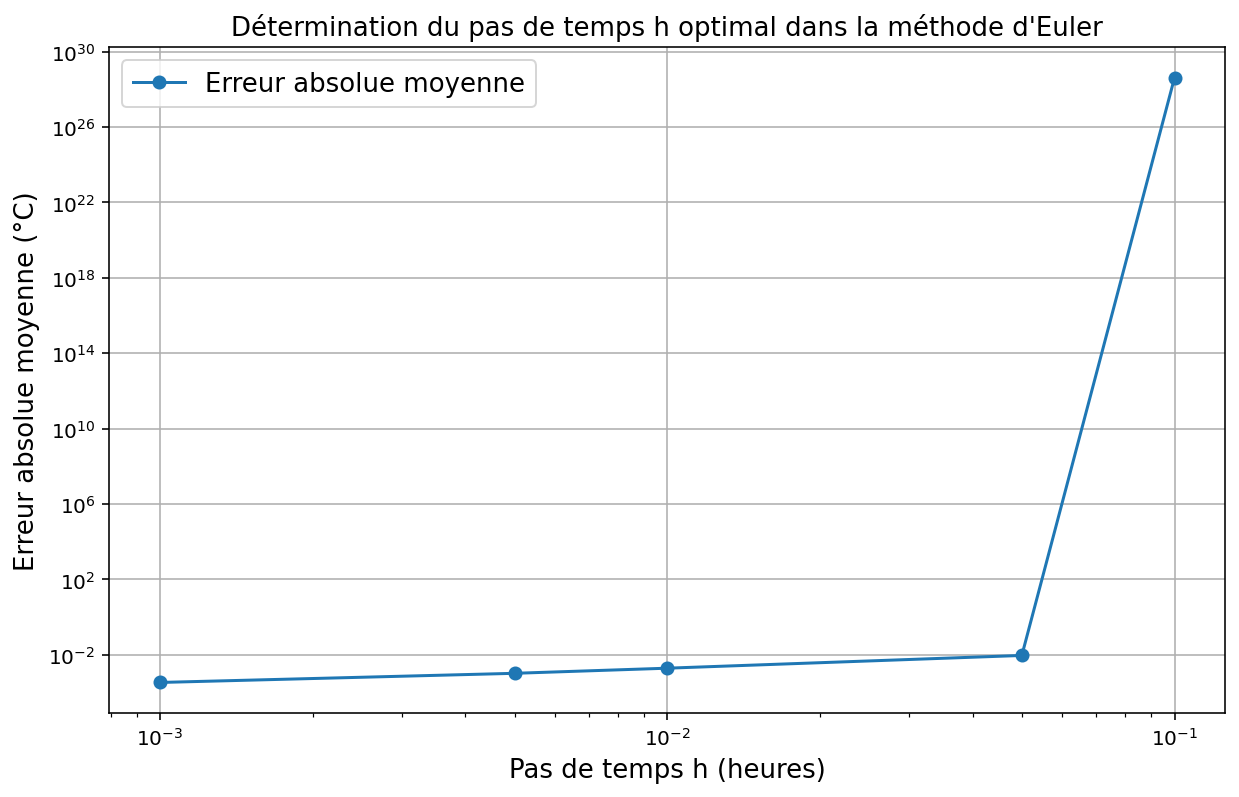
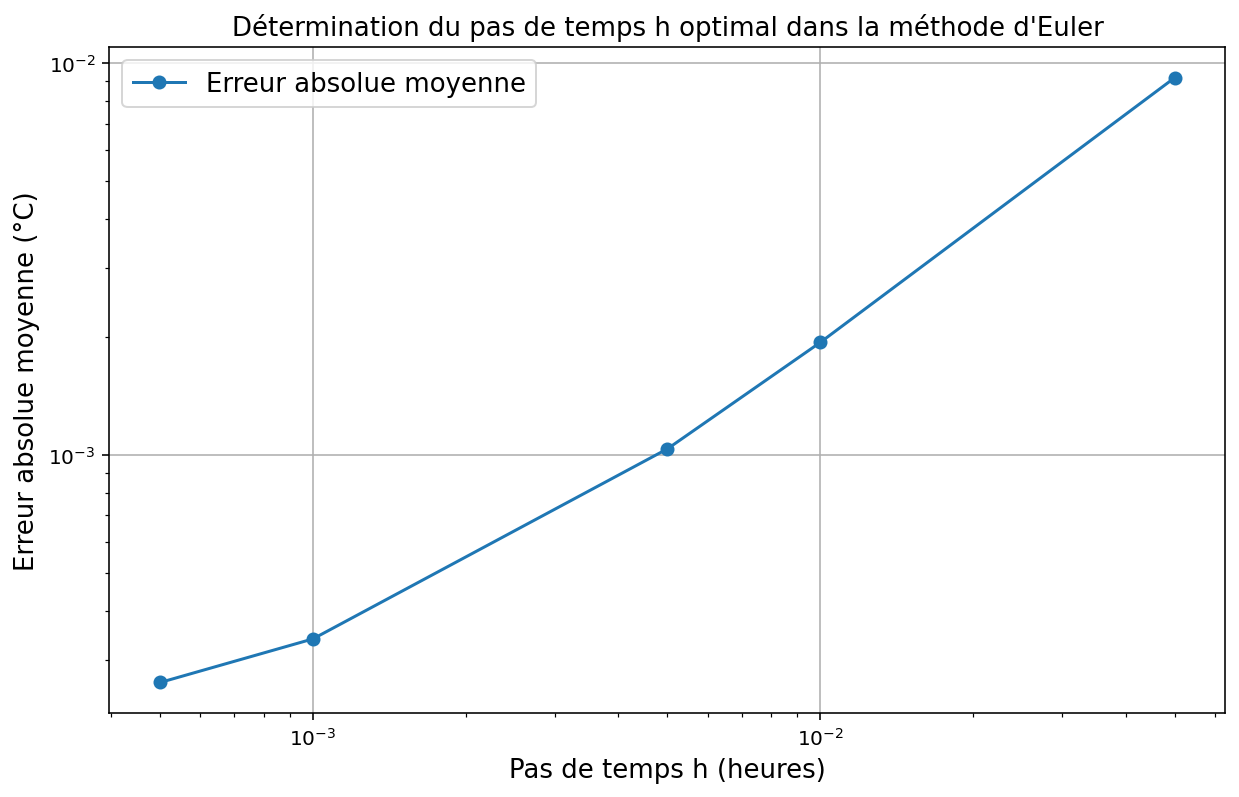
fix: meilleur graphe pas optimal

diff --git a/RechercheRacine.py b/RechercheRacine.py
@@ -4,7 +4,9 @@ def bissection(f,x0,x1,tol):
 
     fx0 = f(x0)
     fx1 = f(x1)
-
+    k = 0
+    k_max = 1000
+    
     if(np.abs(fx0)<=tol): # si x0 est déja une racine
         statut = 0
         return [x0,statut]
@@ -13,8 +15,7 @@ def bissection(f,x0,x1,tol):
         return [x1,statut]
 
     if(fx0*fx1<0): # => Deux valeurs de signe opposé => hyp. verifiée
-        k = 0
-        k_max = np.log2(np.abs(x1-x0)/(2*tol))
+        
 
         while (np.abs(x1-x0) > tol): #Tant que l'intervalle est + grand que tol
             x2 = (x0+x1)/2
@@ -39,7 +40,6 @@ def bissection(f,x0,x1,tol):
                 print("Erreur, la bissection ne converge pas vers une racine.")
                 print("Veuillez entrer des autres valeurs qui définissent un intervalle différent de celui des précédentes valeurs.")
                 print("Ou il est possible que la fonction n'est pas continue dans cette intervalle.")
-                print(k)
                 return [1,statut]
 
         statut = 0
@@ -59,7 +59,13 @@ def secante(f,x0,x1,tol):
     k_max = int(np.log2(np.abs(x1-x0)/(2*tol)))
     fx0 = f(x0)
     fx1 = f(x1)
-
+    k = 0
+    
+    if(fx0*fx1>0):
+        statut = 1
+        print("Erreur, les valeurs introduites partagent le même signe.")
+        return [1,statut]
+    
     if(np.abs(fx0-fx1)<=tol):
         statut = 1
         print("Erreur, les valeurs introduites partagent la même ordonnée.")
@@ -82,9 +88,12 @@ def secante(f,x0,x1,tol):
             
         x0, x1 = x1, x2
         fx0, fx1 = fx1, f(x2)
+        
+        k += 1
     else:
         # Si on sort de la boucle sans break, on utilise la bissection
-        print("La méthode de la sécante n'a pas convergé, utilisation de la bissection")
+        print("La méthode de la sécante n'a pas convergé.")
+        print(k)
         statut = 1
         return [x1,statut]
     

diff --git a/SimTABS.py b/SimTABS.py
@@ -4,7 +4,6 @@ import matplotlib.pyplot as plt
 from scipy.integrate import solve_ivp as ode45 # Defining the solver (ode45)
 from scipy.interpolate import interp1d
 from RechercheRacine import secante
-from RechercheRacine import bissection
 
 
 '''Signification des constantes
@@ -179,7 +178,7 @@ t_ref, T_ref = calculTemperaturesIVP(tspan, T0, rtol)
 
 # Valeurs candidates de h
 
-h_test = [0.1, 0.05, 0.01, 0.005, 0.001]
+h_test = [0.05, 0.01, 0.005, 0.001, 0.0005]
 
 comparaisonEulerIVP(t_ref, T_ref, h_test)
 

diff --git a/RechercheRacineTest.py b/RechercheRacineTest.py
@@ -1,0 +1,9 @@
+import RechercheRacine as rr
+
+def f(x):
+    return x**3 - 2*x - 4
+
+
+
+print(rr.bissection(f,-5,10,1e-6))
+print(rr.secante(f,-5,10,1e-6))
